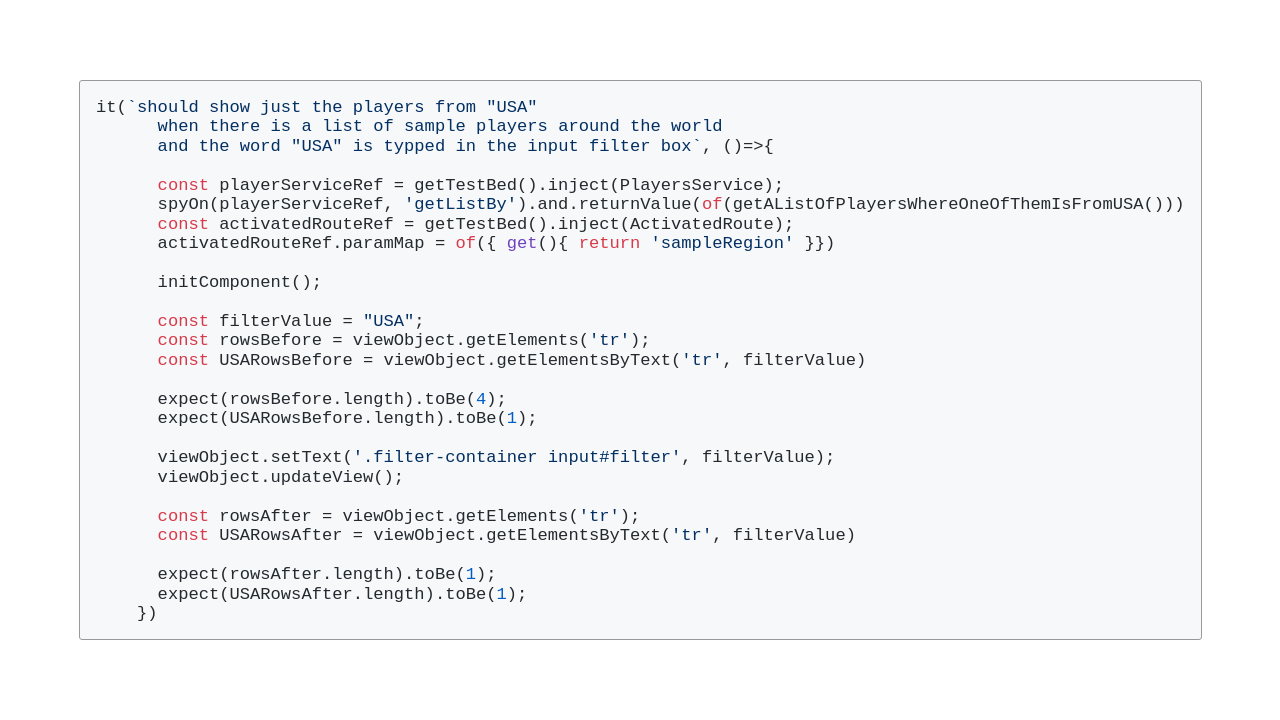
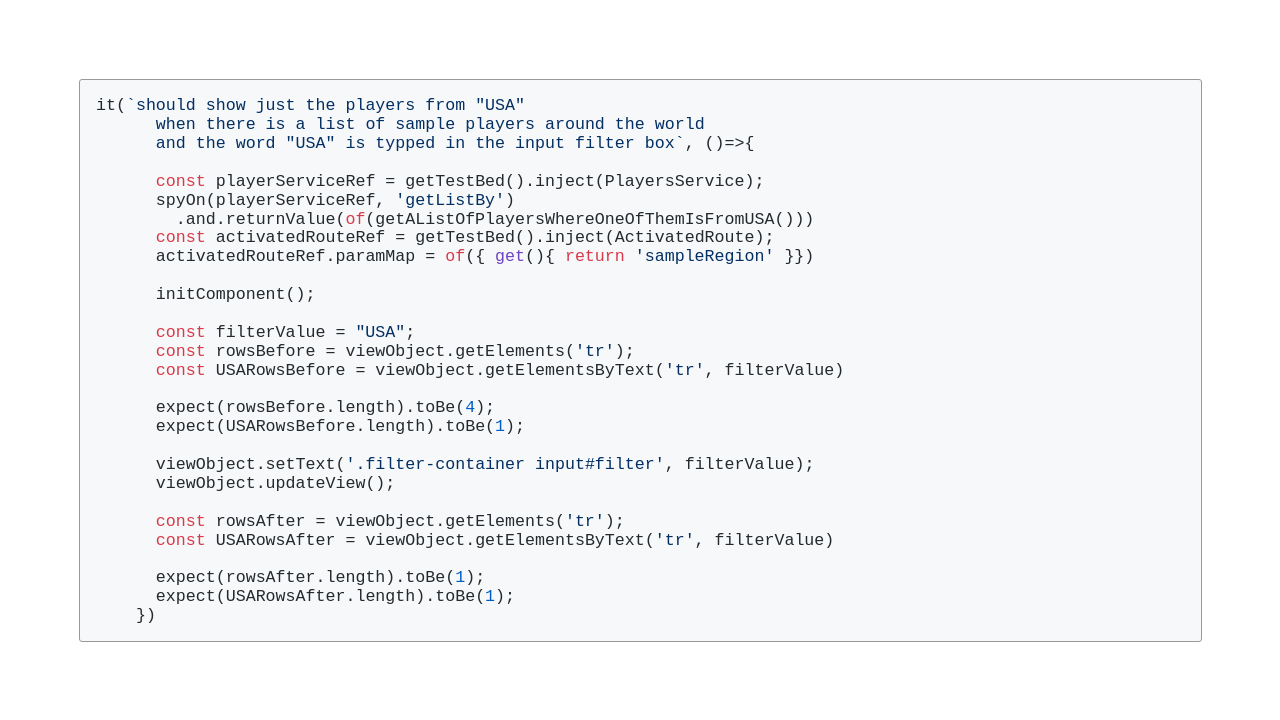
actualiza imagenes

diff --git a/slices/iteracion4/iteracion4_ejemplo1.md b/slices/iteracion4/iteracion4_ejemplo1.md
@@ -8,7 +8,8 @@ it(`should show just the players from "USA"
       and the word "USA" is typped in the input filter box`, ()=>{
 
       const playerServiceRef = getTestBed().inject(PlayersService);
-      spyOn(playerServiceRef, 'getListBy').and.returnValue(of(getAListOfPlayersWhereOneOfThemIsFromUSA()))
+      spyOn(playerServiceRef, 'getListBy')
+        .and.returnValue(of(getAListOfPlayersWhereOneOfThemIsFromUSA()))
       const activatedRouteRef = getTestBed().inject(ActivatedRoute);
       activatedRouteRef.paramMap = of({ get(){ return 'sampleRegion' }})
 

diff --git a/slices/iteracion5/iteracion5_ejemplo1.md b/slices/iteracion5/iteracion5_ejemplo1.md
@@ -3,12 +3,12 @@ marp: true
 ---
 
 ```js
-it(`sshould show just the players from "USA"
+it(`should show just the players from "USA"
       when there is a list of sample players around the world 
       and the word "USA" is typped in the input filter box`, ()=>{
 
       playersSpy.getListBy().return(getAListOfPlayersWhereOneOfThemIsFromUSA());
-      activatedRouteSpy.paramMap('sampleRegion');
+      activatedRouteSpy.paramMap().return('sampleRegion');
       
       initComponent();
 

diff --git a/slices/iteracion5/iteracion5_ejemplo2.md b/slices/iteracion5/iteracion5_ejemplo2.md
@@ -7,7 +7,7 @@ marp: true
         when all players are deleted`, ()=>{
      
       playersSpy.getListBy().return(getAListOfSamplePlayers());
-      activatedRouteSpy.paramMap('sampleRegion');
+      activatedRouteSpy.paramMap().return('sampleRegion');
 
       initComponent();
 
